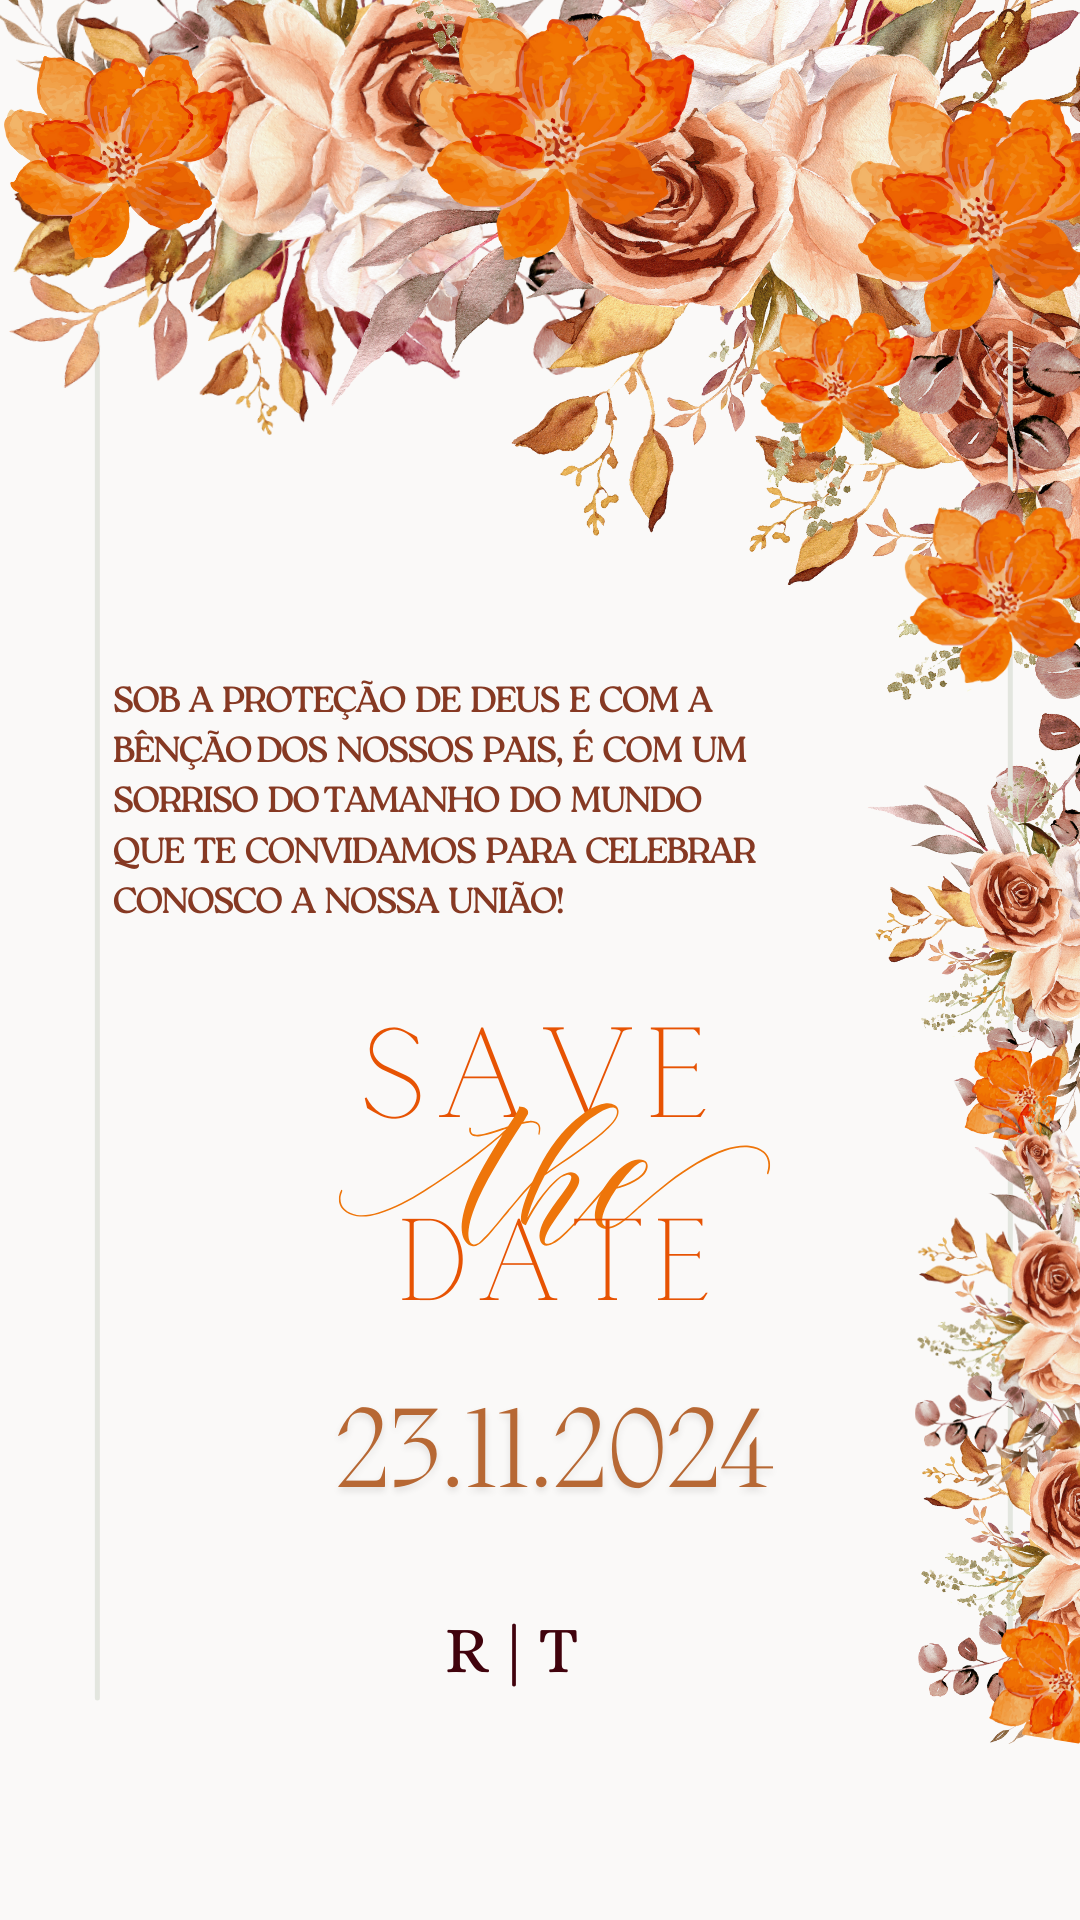
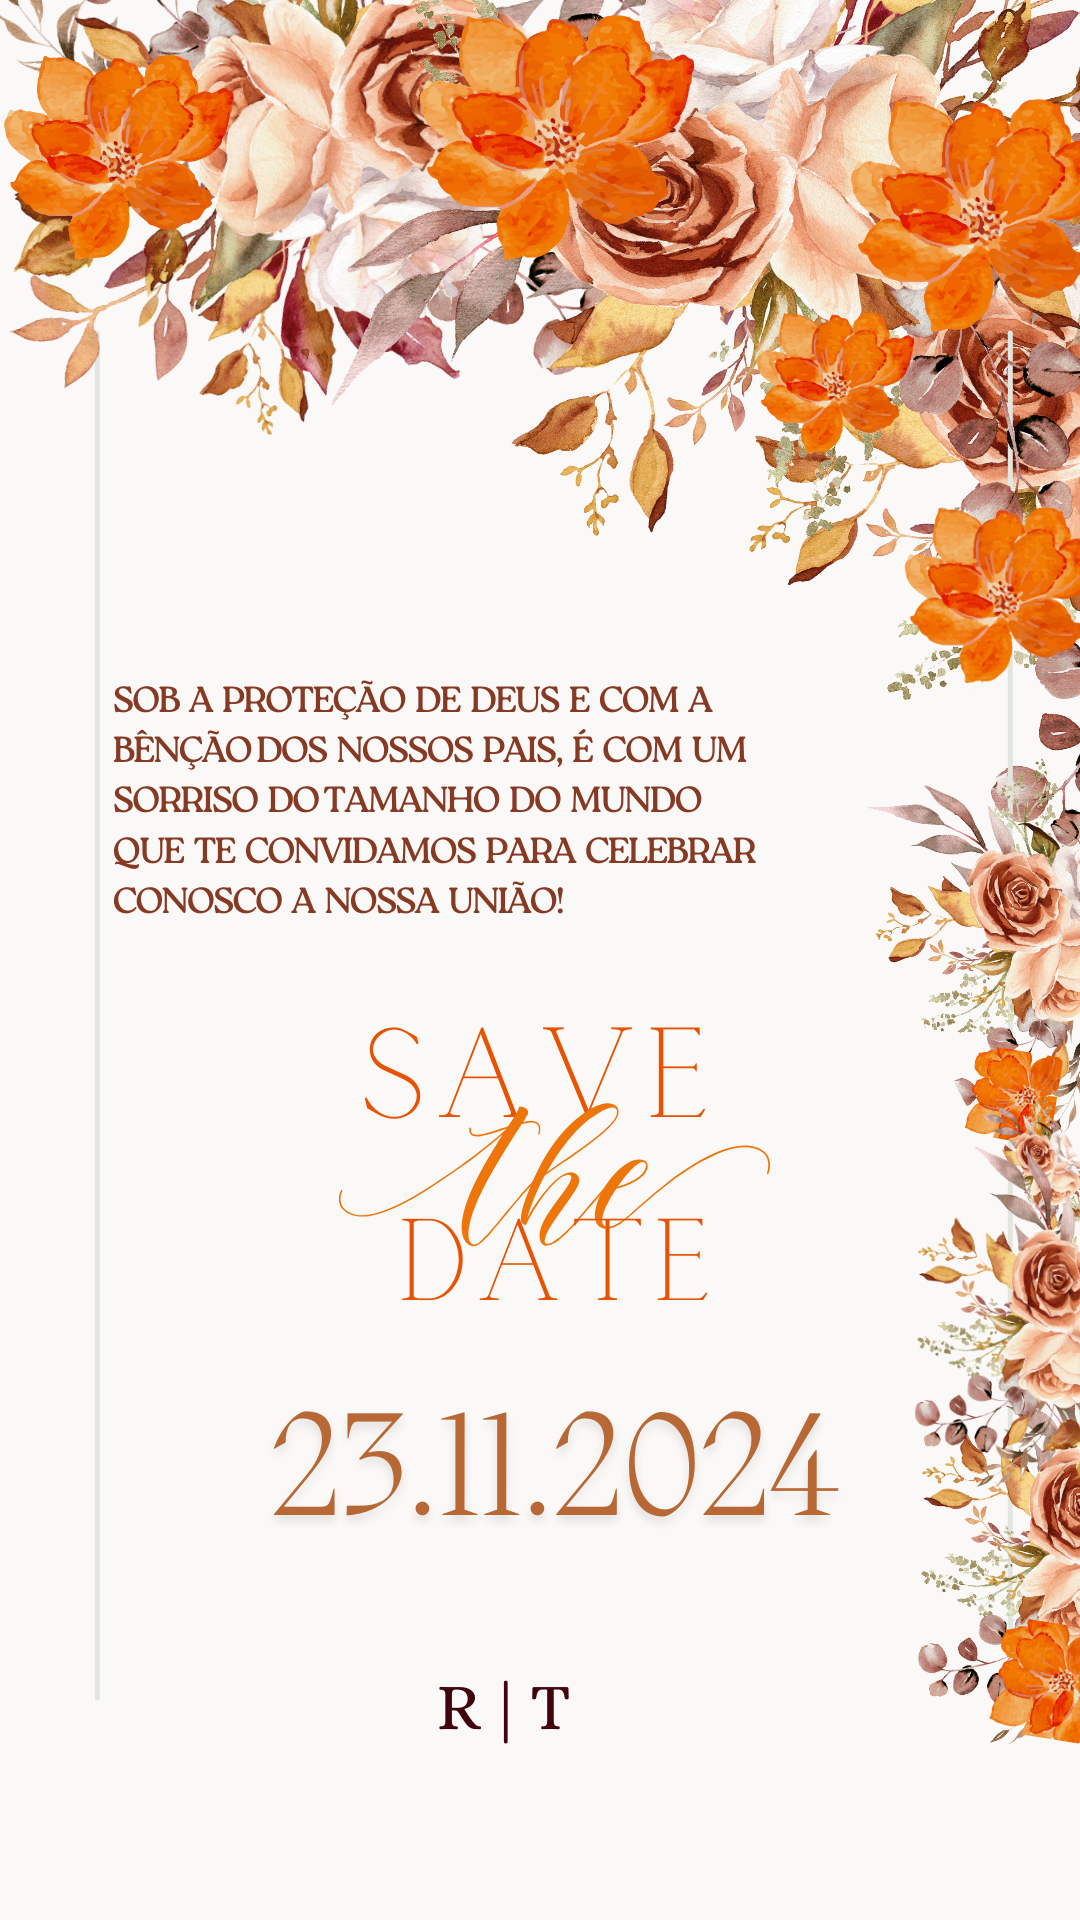
aaaaa

Changed region(s): [[0.5194, 0.7188, 0.7639, 0.8125], [0.2444, 0.7188, 0.4889, 0.8125], [0.3972, 0.8438, 0.5194, 0.9062]]

diff --git a/style.css b/style.css
@@ -40,7 +40,7 @@
     .localizacao {
         position: absolute;
         top:50%; 
-        left: 55%; 
+        left: 65%; 
         transform: translate(-50%, -50%);
         text-align: center;
         align-items: center ;
@@ -48,7 +48,7 @@
     }
     .tagsConvite {
         position: absolute;
-        top:68%; 
+        top:75%; 
         left: 40%;
         display: grid;
         font-size: 0.8rem;
@@ -88,7 +88,7 @@
         transition: background-color 0.3s ease;
         position: absolute;
         width: 40%;
-        top: 83%; 
+        top: 90%; 
         left: 35%; 
         transform: translate(-50%, -50%);
         text-align: center;
